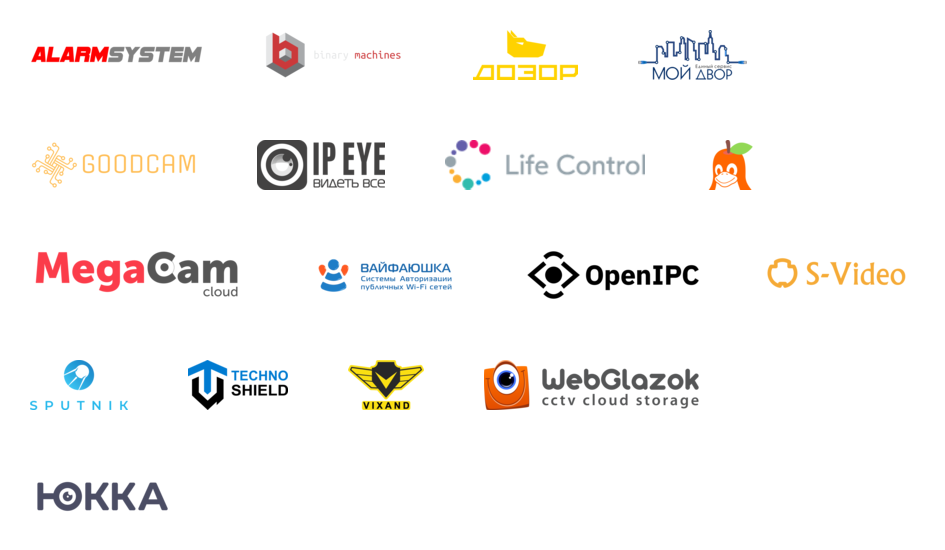
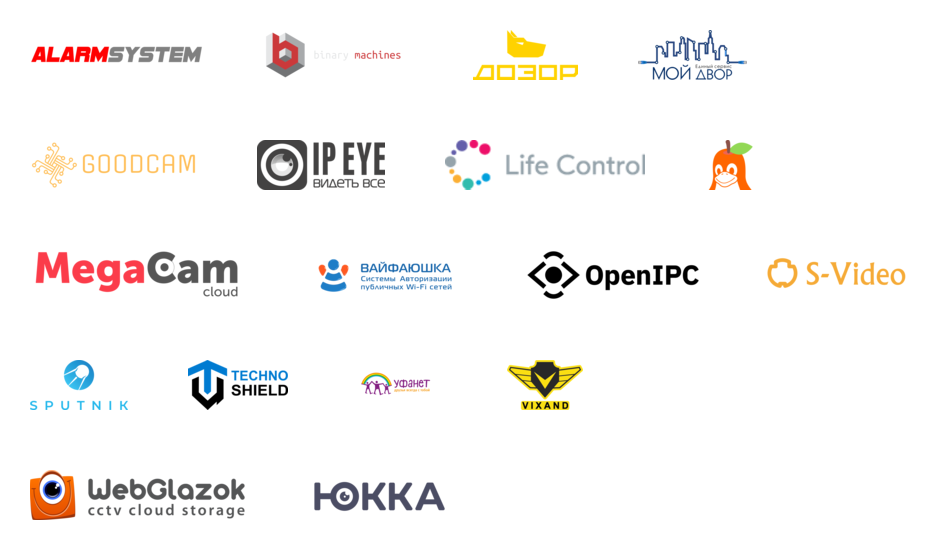
Update page

diff --git a/docs/index.md b/docs/index.md
@@ -68,4 +68,4 @@ We would be grateful for the feedback and suggestions.
 | [![DVOR24 logo](https://openipc.github.io/images/partner_dvor24_mini.png "DVOR24 logo")](https://dvor24.ru) | [![GOODCAM logo](https://openipc.github.io/images/partner_goodcam_mini.png "GOODCAM logo")](https://www.goodcam.io) | [![IPEYE logo](https://openipc.github.io/images/partner_ipeye_mini.png "IPEYE logo")](https://ipeye.ru) | [![LIFECONTROL logo](https://openipc.github.io/images/partner_lifecontrol_mini.png "LIFECONTROL logo")](https://lifecontrol.ru/) |
 | [![MEGACAM logo](https://openipc.github.io/images/partner_megacam_mini.png "MEGACAM logo")](http://megacam.kz) | [![MYWIFI-CC logo](https://openipc.github.io/images/partner_mywifi-cc_mini.png "MYWIFI-CC logo")](https://xn--80aaaf0bh2e7a5c.xn--p1ai/) | [![OPENIPC logo](https://openipc.github.io/images/partner_openipc_mini.png "OPENIPC logo")](https://openipc.org) | [![SPUTNIK logo](https://openipc.github.io/images/partner_sputnik_mini.png "SPUTNIK logo")](https://sputnik.systems) |
 | [![TECHNO_SHIELD logo](https://openipc.github.io/images/partner_techno-shield_mini.png "TECHNO_SCHIELD logo")](https://msvoko.ru) | [![VIXAND logo](https://openipc.github.io/images/partner_vixand_mini.png "VIXAND logo")](http://vixand.ru) | [![WEBGLAZOK logo](https://openipc.github.io/images/partner_webglazok_mini.png "WEBGLAZOK logo")](https://webglazok.com) | [![YUCCA logo](https://openipc.github.io/images/partner_yucca_mini.png "YUCCA logo")](https://yucca.app/en) |
-| [![S-VIDEO logo](https://openipc.github.io/images/partner_s-video_mini.png "S-Video logo")](https://www.cctvsp.ru/cctv/openipc) | [![LINUXCHENXING logo](https://openipc.github.io/images/partner_linuxchenxing_mini.png "LINUXCHENXING logo")](https://linux-chenxing.org)  |   |   |
+| [![S-VIDEO logo](https://openipc.github.io/images/partner_s-video_mini.png "S-Video logo")](https://www.cctvsp.ru/cctv/openipc) | [![LINUXCHENXING logo](https://openipc.github.io/images/partner_linuxchenxing_mini.png "LINUXCHENXING logo")](https://linux-chenxing.org)  | [![UFANET logo](https://openipc.github.io/images/partner_ufanet_mini.png "UFANET logo")](https://www.ufanet.ru/) |   |
